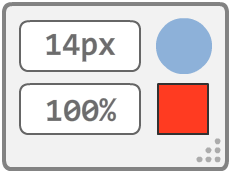
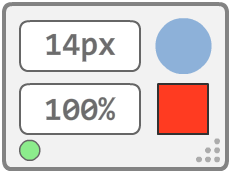
upd

diff --git a/jp.html b/jp.html
@@ -182,6 +182,7 @@
       ボックスの空いた部分をClick+Dragするとボックスを移動し、右下の点アイコンはボックスのサイズを変更します。<p></p>
       「14px」と書いてある部分はサイズを意味します。このボックスの右側部分をクリックするとサイズ増加,左側部分はサイズ減少です。<br>
       「100%」と書いてある部分は透明度です。調整方法は上の説明と同じです。<br>
+      左下の小さい緑の円はペンツールの手ぶれ補正機能をＯＮ／ＯＦＦするボタンです。<br>
       この２つのボックスはClick+Drag(左右または上下)すると速く数値を変わることができます。<br>
       消しゴムとペンのサイズ、透明度データは別に分かれています。<br>
       青い円は ペン(直線,消しゴム)のかたち変更アイコンです。クリックするたび, 円形、四角形に変更します。<br>

diff --git a/kr.html b/kr.html
@@ -184,6 +184,7 @@
       박스의 빈부분을 클릭+드래그하면 박스를 이동시킬 수 있고. 점으로된 부분은 크기를 조절합니다.<p></p>
       14px라고 적혀져 있는 것은 크기이며, 상자의 오른쪽부분을 클릭하면 크기 증가, 왼쪽을 클릭하면 크기 감소가 됩니다.<br>
       100%라고 젹혀져 있는 것은 투명도이며, 투명도 증가 감소 방법은 위와 같습니다.<br>
+      왼쪽 아래 녹색 점은 펜 툴의 손떨림 방지를 켜고 끄는 버튼입니다.<br>
       이들 박스는 클릭+드래그(상하 또는 좌우)하면 빠르게 수치를 바꿀 수 있습니다.<br>
       지우개와 펜(직선)의 크기,투명도 데이터는 따로 관리됩니다.<br>
       파란색 원은 펜(직선,지우개)모양이며, 클릭 할 때마다 원모양, 사각형모양으로 바뀝니다.<br>

diff --git a/en.html b/en.html
@@ -183,6 +183,7 @@
       Click + Drag the empty part of the box to move the box, and the dot icon at the bottom right changes the size of the box.<p></p>
       The part written as “14px” means the size. Click on the right side of this box to increase the size and the left side to decrease the size.<br>
       The part written as “100%” means transparency. The adjustment method is the same as described above.<br>
+      The green small circle at bottom left of pen options box is turn on/off button what pen smoothing function.<br>
       These two boxes can change numerical values quickly by clicking + Drag (left / right or up / down).<br>
       Eraser and pen size and transparency data are separated.<br>
       The blue circle is a pen (straight line, eraser) shape change icon. Each time you click, it changes to a circle or a rectangle.<br>
